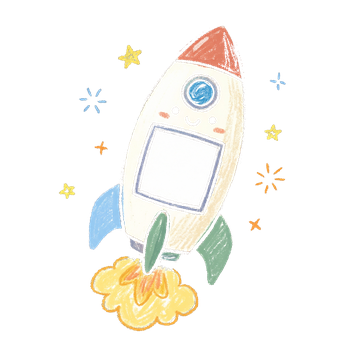
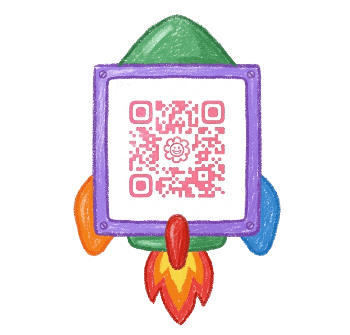
ロケット画像をユーザー提供のクレヨンタッチ版に差し替え
- 紫フレーム+緑の先端+カラフルな羽根+噴射炎のロケット
- QRコードが中央にドーンと表示されるデザイン
- 配置位置を新画像に合わせて調整

Changed region(s): [[0.1714, 0.0299, 0.8286, 0.9851]]

diff --git a/tool/css/tool.css b/tool/css/tool.css
@@ -441,13 +441,13 @@
   display: block;
 }
 
-/* QRプレビューをロケットの白パネル部分に配置 */
+/* QRプレビューをロケットの中央パネル部分に配置 */
 .rocket-qr-slot {
   position: absolute;
-  top: 40%;
-  left: 22%;
-  width: 38%;
-  height: 28%;
+  top: 22%;
+  left: 20%;
+  width: 58%;
+  height: 48%;
   display: flex;
   align-items: center;
   justify-content: center;
